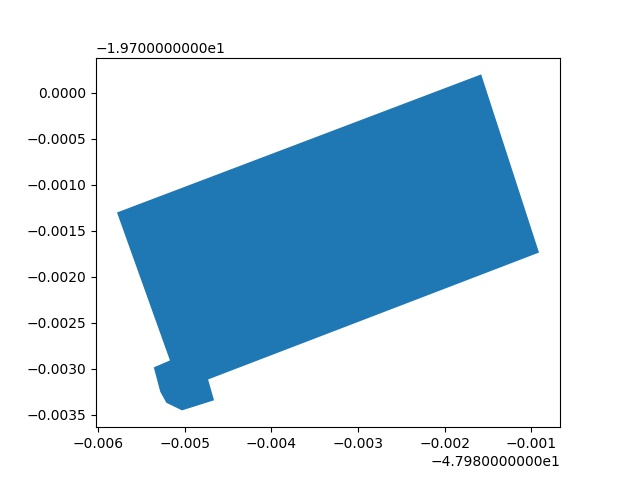
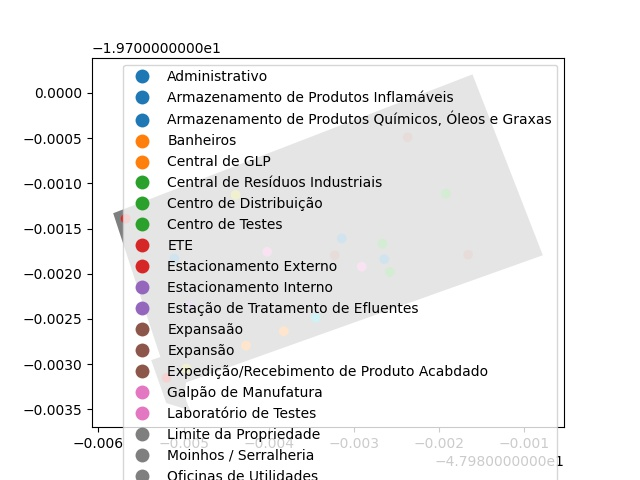
legendas

diff --git a/kml_to_img.py b/kml_to_img.py
@@ -4,9 +4,16 @@ gpd.io.file.fiona.drvsupport.supported_drivers['KML'] = 'rw'
 
 
 # Filepath to KML file
-fp = "./files/417-94-11688-19052021.kml"
+fp = "./files/417-86-11687-19052021.kml"
 
 polys = gpd.read_file(fp, driver='KML')
-print(polys)
-polys.plot()
+
+
+
+polys.plot("Name")
+
+plt.savefig('./files/test.jpg')
+
+polys.plot("Name",legend=True)
+
 plt.savefig('./files/test2.jpg')

diff --git a/geopandas_teste.py b/geopandas_teste.py
@@ -1,0 +1,10 @@
+import geopandas as gpd
+import fiona
+
+gpd.io.file.fiona.drvsupport.supported_drivers['KML'] = 'rw'
+df = gpd.read_file("./files/417-86-11687-19052021.kml", driver='KML')
+
+
+type(df)
+
+print(df)
